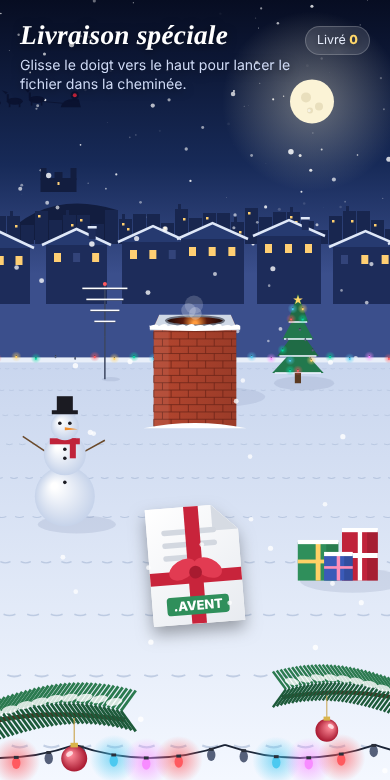
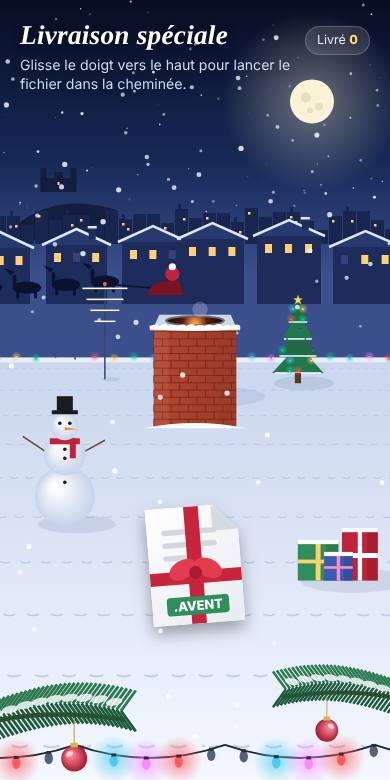
Fichier mystère : surprises seulement au vrai contact, traîneau au-dessus du toit
Claude-Session: https://claude.ai/code/session_01D8SkFpu325YTheh6Kv7Hg8

diff --git a/2026/js/musiques-jeux.js b/2026/js/musiques-jeux.js
@@ -1182,18 +1182,20 @@ function mysSons(A, musique = true) {
       ton(t, 120, 1.1, 0.025, 'square');
       ton(t, 1400, 0.08, 0.05, 'square', 400);
     },
+    // le traîneau touché : un choc, les grelots qui s'affolent, un sifflement qui descend
     crash: () => {
       const t = now();
-      ton(t, 1300, 1.4, 0.04, 'sine', 220);
-      for (let i = 0; i < 6; i++) souffle(t + i * 0.18, 0.08, 0.025, 'highpass', 6500, 0, 1, 0.003);
-      souffle(t + 1.45, 0.9, 0.3, 'lowpass', 900, 90, 0.7, 0.01);
-      ton(t + 1.45, 110, 0.4, 0.25, 'sine', 45);
-      for (let i = 0; i < 9; i++) ton(t + 1.5 + Math.random() * 0.5, 2000 + Math.random() * 2500, 0.25, 0.025);
+      ton(t, 180, 0.18, 0.2, 'sine', 70);
+      souffle(t, 0.1, 0.12, 'bandpass', 900, 0, 1.5, 0.002);
+      for (let i = 0; i < 10; i++) souffle(t + i * 0.07, 0.07, 0.03, 'highpass', 6500, 0, 1, 0.003);
+      ton(t + 0.1, 1300, 0.8, 0.04, 'sine', 260);
     },
-    clin: () => {
+    // … et il s'écrase dans la neige du toit
+    boum: () => {
       const t = now();
-      cloche(t, 1568, 0.06);
-      cloche(t + 0.13, 2093, 0.06);
+      souffle(t, 0.9, 0.3, 'lowpass', 900, 90, 0.7, 0.01);
+      ton(t, 110, 0.4, 0.25, 'sine', 45);
+      for (let i = 0; i < 9; i++) ton(t + 0.05 + Math.random() * 0.5, 2000 + Math.random() * 2500, 0.25, 0.025);
     },
     fin: () => {
       clearInterval(iv);
@@ -1300,21 +1302,20 @@ function mysLancer(cb, fic) {
   const OE = {},
     T = () => performance.now() / 1000,
     age = k => (OE[k] == null ? 99 : T() - OE[k]),
-    DUREE = { bonhomme: 7, cadeaux: 6, sapin: 4.5, antenne: 7.5, traineau: 16, lune: 3 },
+    DUREE = { bonhomme: 7, cadeaux: 6, sapin: 4.5, antenne: 7.5, traineau: 16 },
     SECRETS = {
       bonhomme: 'Le bonhomme de neige s’écroule ! ⛄',
       sapin: 'Le sapin perd ses aiguilles ! 🎄',
       cadeaux: 'Il y avait un chat dans le cadeau ! 🐱',
       antenne: 'Plus de télé chez le voisin ! 📺',
-      traineau: 'Tu as fait tomber le Père Noël ! 🎅💥',
-      lune: 'La lune t’a fait un clin d’œil 😉'
+      traineau: 'Tu as fait tomber le Père Noël ! 🎅💥'
     },
     secEl = o.querySelector('.mysl-sec');
   let crash = null;
-  const surprise = (k, px, py) => {
+  const surprise = (k, tp) => {
     if (age(k) < DUREE[k]) return;
     OE[k] = T();
-    bruit({ bonhomme: 'eboule', sapin: 'aiguilles', cadeaux: 'miaou', antenne: 'gresille', traineau: 'crash', lune: 'clin' }[k]);
+    bruit({ bonhomme: 'eboule', sapin: 'aiguilles', cadeaux: 'miaou', antenne: 'gresille', traineau: 'crash' }[k]);
     let neuf = 0,
       n = 0;
     try {
@@ -1324,10 +1325,10 @@ function mysLancer(cb, fic) {
       n = Object.keys(S.mysSec).length;
       if (neuf) {
         save();
-        slog('🥚', `Fichier mystère : surprise « ${k} » trouvée (${n}/6)`);
+        slog('🥚', `Fichier mystère : surprise « ${k} » trouvée (${n}/5)`);
       }
     } catch (_) {}
-    secEl.innerHTML = (neuf ? '<i>🥚 Nouveau secret !</i>' : '') + `<b>${SECRETS[k]}</b>` + (n ? `<u>${n}/6</u>` : '');
+    secEl.innerHTML = (neuf ? '<i>🥚 Nouveau secret !</i>' : '') + `<b>${SECRETS[k]}</b>` + (n ? `<u>${n}/5</u>` : '');
     secEl.classList.remove('on');
     void secEl.offsetWidth;
     secEl.classList.add('on');
@@ -1353,7 +1354,7 @@ function mysLancer(cb, fic) {
           c: col[i % col.length]
         });
     }
-    if (k == 'traineau') crash = { x: px, y: py, vx: -40 - Math.random() * 30, vy: -60, r: 0, fume: [] };
+    if (k == 'traineau') crash = { x: tp.x, y: TY, vx: -1.6, vy: 1.4, r: 0, fume: [] };
   };
   const OBS = [
     { t: 'bonhomme', x: -1.3, z: 3.7, r: 0.3, h: 1.05 },
@@ -1361,6 +1362,21 @@ function mysLancer(cb, fic) {
     { t: 'sapin', x: 2.0, z: 7.2, r: 0.45, h: 1.7 },
     { t: 'antenne', x: -1.8, z: 7.4, r: 0.14, h: 1.9 }
   ];
+  // rayon réel de chaque élément à une hauteur donnée (le sapin est un cône, le bonhomme trois boules, l'antenne a des barres en haut)
+  const rayon = (ob, y) =>
+    ob.t == 'sapin'
+      ? Math.max(0.06, ob.r * (1 - y / ob.h) + 0.05)
+      : ob.t == 'bonhomme'
+        ? y < 0.55
+          ? 0.3
+          : y < 0.88
+            ? 0.21
+            : 0.14
+        : ob.t == 'antenne'
+          ? y > ob.h - 0.8
+            ? 0.45
+            : 0.05
+          : ob.r;
   const RIDGE = 8.5, // faîtage : au-delà, le fichier tombe de l'autre côté
     BORD = 0.75; // bord du toit côté caméra (la gouttière)
   const taille = () => {
@@ -1443,33 +1459,6 @@ function mysLancer(cb, fic) {
       c.arc(mx + a, my + b, r, 0, 7);
       c.fill();
     });
-    const al = age('lune');
-    if (al < DUREE.lune) {
-      // un visage apparaît et fait un clin d'œil
-      c.globalAlpha = Math.min(1, al * 4, (DUREE.lune - al) * 3);
-      c.strokeStyle = c.fillStyle = '#5a4a2a';
-      c.lineWidth = 2;
-      c.beginPath();
-      c.arc(mx - 7, my - 4, 2.4, 0, 7);
-      c.fill();
-      c.beginPath();
-      if (Math.sin(al * 5) > -0.2) c.arc(mx + 7, my - 3, 3.5, Math.PI * 1.1, Math.PI * 1.9);
-      else c.arc(mx + 7, my - 4, 2.4, 0, 7);
-      c.stroke();
-      c.beginPath();
-      c.arc(mx, my + 3, 8, 0.25, Math.PI - 0.25);
-      c.stroke();
-      c.fillStyle = '#ffb3a7';
-      c.beginPath();
-      c.arc(mx - 13, my + 3, 3, 0, 7);
-      c.arc(mx + 13, my + 3, 3, 0, 7);
-      c.fill();
-      c.fillStyle = '#fff6c8';
-      c.font = '14px system-ui';
-      c.textAlign = 'center';
-      c.fillText('✨', mx + 30, my - 18 - al * 6);
-      c.globalAlpha = 1;
-    }
   };
   const lyon = () => {
     // colline de Fourvière et sa basilique, puis les toits de la ville
@@ -1896,16 +1885,20 @@ function mysLancer(cb, fic) {
       }
     });
   };
+  // le traîneau du Père Noël survole le toit toutes les 11 s, juste devant les maisons (sauf s'il vient de s'écraser)
+  const TY = 1.9, // son altitude
+    TZ = 7.6, // sa profondeur
+    TL = 110; // sa longueur dans le dessin
   const traineauPos = t => {
-    // le traîneau du Père Noël passe devant la lune toutes les 10 s (sauf s'il vient de s'écraser)
     if (age('traineau') < DUREE.traineau) return null;
-    const k = (t % 10) / 6;
+    const k = (t % 11) / 8;
     if (k > 1) return null;
-    return { x: W * 1.1 - k * W * 1.25, y: H * 0.14 + Math.sin(k * 6) * 8 };
+    return { x: 6.5 - k * 13, y: TY + Math.sin(k * 6) * 0.12 };
   };
-  const traineauDessin = (x, y, rot, t) => {
+  const traineauDessin = (x, y, rot, t, sc) => {
     c.save();
     c.translate(x, y);
+    c.scale(sc, sc);
     c.rotate(rot);
     c.fillStyle = '#0a1230';
     for (let r = 0; r < 4; r++) {
@@ -1929,57 +1922,77 @@ function mysLancer(cb, fic) {
     c.moveTo(-16, 0);
     c.lineTo(6, 2);
     c.stroke();
+    c.fillStyle = '#7a1424';
     c.beginPath();
     c.moveTo(4, 6);
     c.quadraticCurveTo(6, -4, 22, -2);
     c.lineTo(24, 6);
     c.closePath();
     c.fill();
+    c.fillStyle = '#c0233a';
     c.beginPath();
     c.arc(18, -6, 4, 0, 7);
     c.fill();
-    c.fillStyle = '#c0233a';
+    c.fillStyle = '#ffffff';
     c.beginPath();
-    c.arc(18, -6, 2, 0, 7);
+    c.arc(18, -10, 2, 0, 7);
     c.fill();
     c.restore();
   };
+  // longueur du traîneau en mètres (rennes compris) : 4 m, dont 0,7 m de traîneau à droite
+  const traineauEchelle = s => (s * 4) / TL;
   const traineau = (t, dt) => {
     const tp = traineauPos(t);
-    if (tp) return traineauDessin(tp.x, tp.y, 0, t);
+    if (tp) {
+      const [x, y, s] = P(tp.x, tp.y, TZ);
+      return traineauDessin(x - s * 0.15, y, 0, t, traineauEchelle(s));
+    }
     if (!crash) return;
-    // il tournoie, laisse une traînée de fumée, puis s'écrase derrière les toits
-    const sol = hy + 26;
-    if (crash.y < sol) {
-      crash.vy += 120 * dt;
+    // touché : il tournoie et s'écrase sur le toit
+    if (!crash.boum) {
+      crash.vy -= G * dt;
       crash.x += crash.vx * dt;
       crash.y += crash.vy * dt;
-      crash.r += dt * 4;
-      if (Math.random() < 0.6) crash.fume.push({ x: crash.x, y: crash.y, r: 4, a: 0.6 });
-      if (crash.y >= sol) {
-        for (let i = 0; i < 16; i++)
-          crash.fume.push({ x: crash.x + (Math.random() - 0.5) * 60, y: sol - Math.random() * 20, r: 8 + Math.random() * 10, a: 0.8 });
+      crash.r += dt * 5;
+      if (Math.random() < 0.6) crash.fume.push({ x: crash.x, y: crash.y, r: 0.08, a: 0.6 });
+      if (crash.y <= 0.1) {
+        crash.y = 0.1;
         crash.boum = T();
+        bruit('boum');
+        for (let i = 0; i < 16; i++)
+          crash.fume.push({ x: crash.x + (Math.random() - 0.5) * 1.6, y: Math.random() * 0.3, r: 0.18 + Math.random() * 0.2, a: 0.8 });
       }
     }
     crash.fume = crash.fume.filter(f => (f.a -= dt * 0.35) > 0);
     crash.fume.forEach(f => {
-      f.r += dt * 10;
-      f.y -= dt * 12;
-      c.fillStyle = `rgba(190,200,225,${f.a})`;
+      f.r += dt * 0.25;
+      f.y += dt * 0.3;
+      const [x, y, s] = P(f.x, f.y, TZ);
+      c.fillStyle = `rgba(220,228,245,${f.a})`;
       c.beginPath();
-      c.arc(f.x, f.y, f.r, 0, 7);
+      c.arc(x, y, f.r * s, 0, 7);
       c.fill();
     });
-    if (crash.y < sol) traineauDessin(crash.x, crash.y, crash.r, t);
-    else if (T() - crash.boum < 2.2) {
-      // les jambes du Père Noël dépassent de la neige
-      c.globalAlpha = Math.min(1, (2.2 - (T() - crash.boum)) * 2);
-      c.fillStyle = '#0a1230';
-      c.fillRect(crash.x - 6, sol - 18, 4, 16);
-      c.fillRect(crash.x + 2, sol - 16, 4, 14);
-      c.fillRect(crash.x - 9, sol - 20, 7, 3);
-      c.fillRect(crash.x + 2, sol - 18, 7, 3);
+    const [x, y, s] = P(crash.x, crash.y, TZ);
+    if (!crash.boum) traineauDessin(x, y, crash.r, t, traineauEchelle(s));
+    else if (T() - crash.boum < 3.5) {
+      // les jambes du Père Noël dépassent de la neige (et gigotent)
+      c.globalAlpha = Math.min(1, (3.5 - (T() - crash.boum)) * 2);
+      const k = s * 0.0042,
+        g = Math.sin(T() * 12) * 2;
+      c.save();
+      c.translate(x, y);
+      c.scale(k, k);
+      c.fillStyle = '#c0233a';
+      c.fillRect(-9, -40, 7, 38);
+      c.fillRect(3 + g * 0.3, -36, 7, 34);
+      c.fillStyle = '#ffffff';
+      c.fillRect(-10, -44, 9, 6);
+      c.fillRect(2 + g * 0.3, -40, 9, 6);
+      c.fillStyle = '#1b1b22';
+      c.fillRect(-12 + g, -54, 12, 10);
+      c.fillRect(1 + g, -50, 12, 10);
+      c.restore();
       c.globalAlpha = 1;
     }
   };
@@ -2345,8 +2358,9 @@ function mysLancer(cb, fic) {
       const dx = F.x - ob.x,
         dz = F.z - ob.z,
         d = Math.hypot(dx, dz),
-        m = ob.r + 0.12;
+        m = rayon(ob, F.y) + 0.12;
       if (F.y < ob.h && d < m && d > 0) {
+        surprise(ob.t); // il l'a vraiment touché
         const nx = dx / d,
           nz = dz / d,
           v = F.vx * nx + F.vz * nz;
@@ -2363,14 +2377,20 @@ function mysLancer(cb, fic) {
       // atterrir sur le dessus d'un obstacle bas (les cadeaux)
       if (ob.t == 'cadeaux' && p.y >= ob.h && F.y < ob.h && d < ob.r) {
         F.y = ob.h;
+        surprise('cadeaux');
         if (F.vy < -1) bruit('obstacle', 'cadeaux', Math.min(1, -F.vy / 6));
         F.vy = Math.abs(F.vy) * 0.25;
       }
     });
-    // les surprises : il suffit de passer tout près d'un élément
-    OBS.forEach(ob => {
-      if (Math.hypot(F.x - ob.x, F.z - ob.z) < ob.r + 0.45 && F.y < ob.h + 0.45) surprise(ob.t);
-    });
+    // le traîneau : il faut vraiment le toucher (boîte autour des rennes et du traîneau)
+    const tp = traineauPos(T());
+    if (tp && Math.abs(F.z - TZ) < 0.45 && F.y > tp.y - 0.35 && F.y < tp.y + 0.4 && F.x > tp.x - 3.5 && F.x < tp.x + 0.7) {
+      surprise('traineau', tp);
+      F.vz = -Math.abs(F.vz) * 0.35;
+      F.vy = Math.min(F.vy, 0) * 0.5;
+      F.va += (Math.random() - 0.5) * 10;
+      choc(0.6);
+    }
     if (F.tombe) return;
     // bord du toit côté caméra : il ne revient pas vers nous
     if (F.z < BORD && F.y < 0.5) {
@@ -2485,13 +2505,6 @@ function mysLancer(cb, fic) {
       for (let i = 0; i < 8; i++) pas(dt / 8);
       F.t += dt;
       bruit('glisse', F.sol && !F.in && !F.tombe ? Math.hypot(F.vx, F.vz) : 0);
-      if (!F.in && !F.sol && F.al > 0) {
-        // le traîneau et la lune, tout en haut du ciel
-        const [px, py] = P(F.x, F.y, F.z),
-          tp = traineauPos(t);
-        if (tp && px > tp.x - 98 && px < tp.x + 30 && Math.abs(py - tp.y) < 26) surprise('traineau', tp.x, tp.y);
-        if (Math.hypot(px - W * 0.8, py - H * 0.13) < 46) surprise('lune');
-      }
       if (!F.in) {
         const arrete = F.sol && Math.hypot(F.vx, F.vz) < 0.02;
         F.arret = arrete || F.tombe || F.z > 14 ? F.arret + dt : 0;
@@ -2512,13 +2525,13 @@ function mysLancer(cb, fic) {
       F.al = F.ent;
     }
     ciel(t);
-    traineau(t, dt);
     lyon();
     voisinsDessin(t);
     neige(dt, false);
     toit();
     // tout ce qui est sur le toit, dessiné du plus loin au plus proche
     const L = OBS.map(ob => [ob.z, () => obstacle(ob, t)]);
+    L.push([TZ, () => traineau(t, dt)]);
     L.push([CZ, () => (chemineeFond(t), F.in && (c.save(), ouverture(), c.clip(), fichier(), c.restore()), chemineeDevant())]);
     if (!F.in) L.push([F.z - (F.z > CZ - CD && F.z < CZ + CD && Math.abs(F.x) < CX ? 1 : 0) * 0, () => (ombre(), fichier())]);
     L.sort((p, q) => q[0] - p[0]).forEach(e => e[1]());

diff --git a/2026/js/langue-anglais.js b/2026/js/langue-anglais.js
@@ -3237,7 +3237,6 @@ window.TRADUCTIONS_EN = {
   'Il y avait un chat dans le cadeau ! 🐱': 'There was a cat in the present! 🐱',
   'Plus de télé chez le voisin ! 📺': 'No more TV for the neighbour! 📺',
   'Tu as fait tomber le Père Noël ! 🎅💥': 'You knocked Santa down! 🎅💥',
-  'La lune t’a fait un clin d’œil 😉': 'The moon winked at you 😉',
   '🥚 Nouveau secret !': '🥚 New secret!',
   'Miaou !': 'Meow!'
 };

diff --git a/2026/index.html b/2026/index.html
@@ -3,7 +3,7 @@
 <script>
 /* 🔢 VERSION DU SITE — à changer à CHAQUE modification, avec la même valeur dans version.json
    (l'appli compare les deux pour se recharger toute seule quand une nouvelle version est en ligne). */
-const APPV='1795692165';
+const APPV='1795692698';
 document.write('<script src="js/fichiers.js'+(location.protocol=='file:'?'':'?v='+APPV)+'"><\/script>');
 </script>
 <script>charger(FICHIERS.tete)</script>

diff --git a/JOURNAL.md b/JOURNAL.md
@@ -3,6 +3,13 @@
 > **Règle :** toute IA (Claude ou autre) qui modifie le site **ajoute une entrée tout en haut** de ce journal à chaque demande de Valentin : la date, ce qui a changé en français simple, le numéro de version et les fichiers touchés. Elle supprime aussi l'ancienne version de ce qui est modifié et range le code au bon endroit (voir les 3 règles d'or dans `CLAUDE.md`). Lis d'abord `CLAUDE.md`, qui contient la carte du code.
 
 ---
+## 2026-11-26 · Fichier mystère : les surprises demandent un vrai contact
+- Avant, une surprise se déclenchait si le fichier passait seulement « devant » un élément à l'écran ou à côté. Maintenant il faut vraiment le toucher en 3D, avec sa vraie forme : le sapin est un cône, le bonhomme trois boules, l'antenne a ses barres en haut.
+- Le traîneau ne passe plus dans le ciel devant la lune : il survole le toit (toutes les 11 s), juste devant les maisons, à une vraie position dans la scène. Il faut un lancer très fort au bon moment pour le toucher. Le fichier rebondit dessus, le traîneau tournoie et s'écrase sur le toit dans un nuage de neige, et les jambes du Père Noël gigotent dans la neige.
+- La surprise de la lune est supprimée, car on ne peut pas vraiment la toucher : il reste 5 secrets.
+- Version 1795692698
+- Fichiers : `2026/js/musiques-jeux.js`, `2026/js/langue-anglais.js`, `2026/index.html`, `2026/version.json`
+
 ## 2026-11-26 · Fichier mystère : 6 surprises cachées quand on rate
 - Quand on rate le lancer, toucher certains éléments déclenche une surprise drôle, avec son bruit, puis tout se remet en place :
   - le bonhomme de neige s'écroule (les boules roulent, la tête tourne, le chapeau s'envole) puis se reconstruit ;
